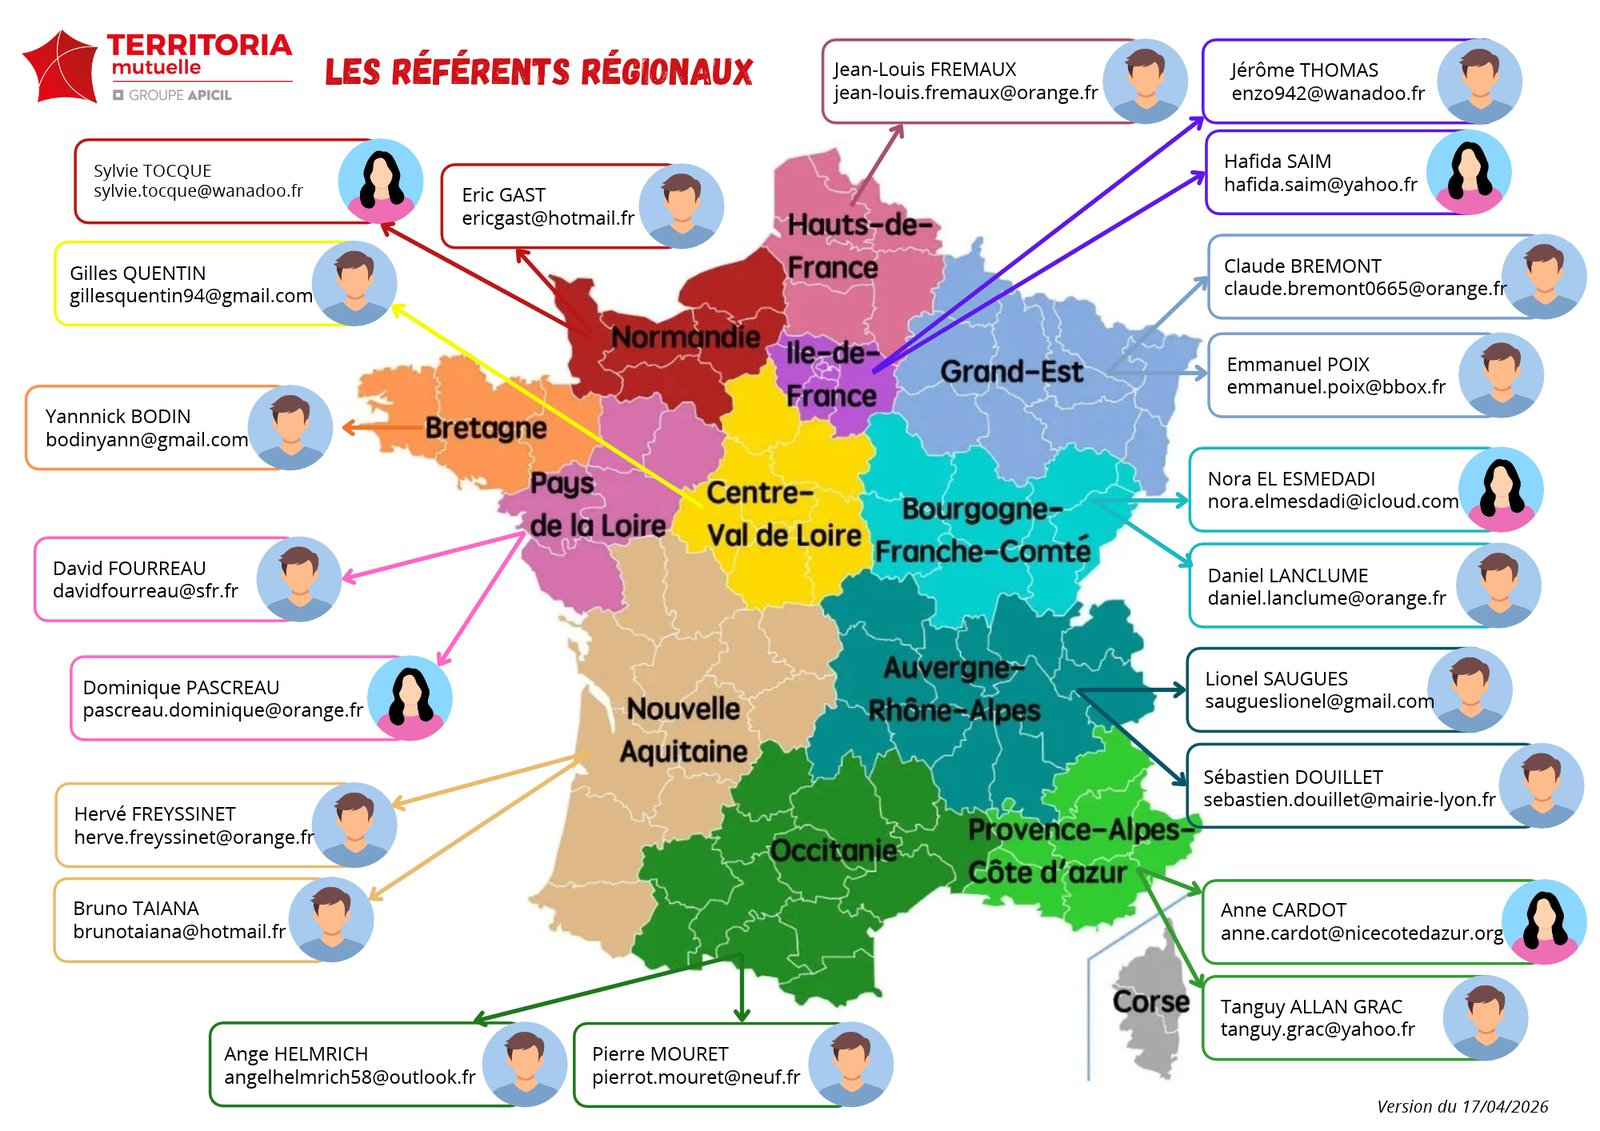
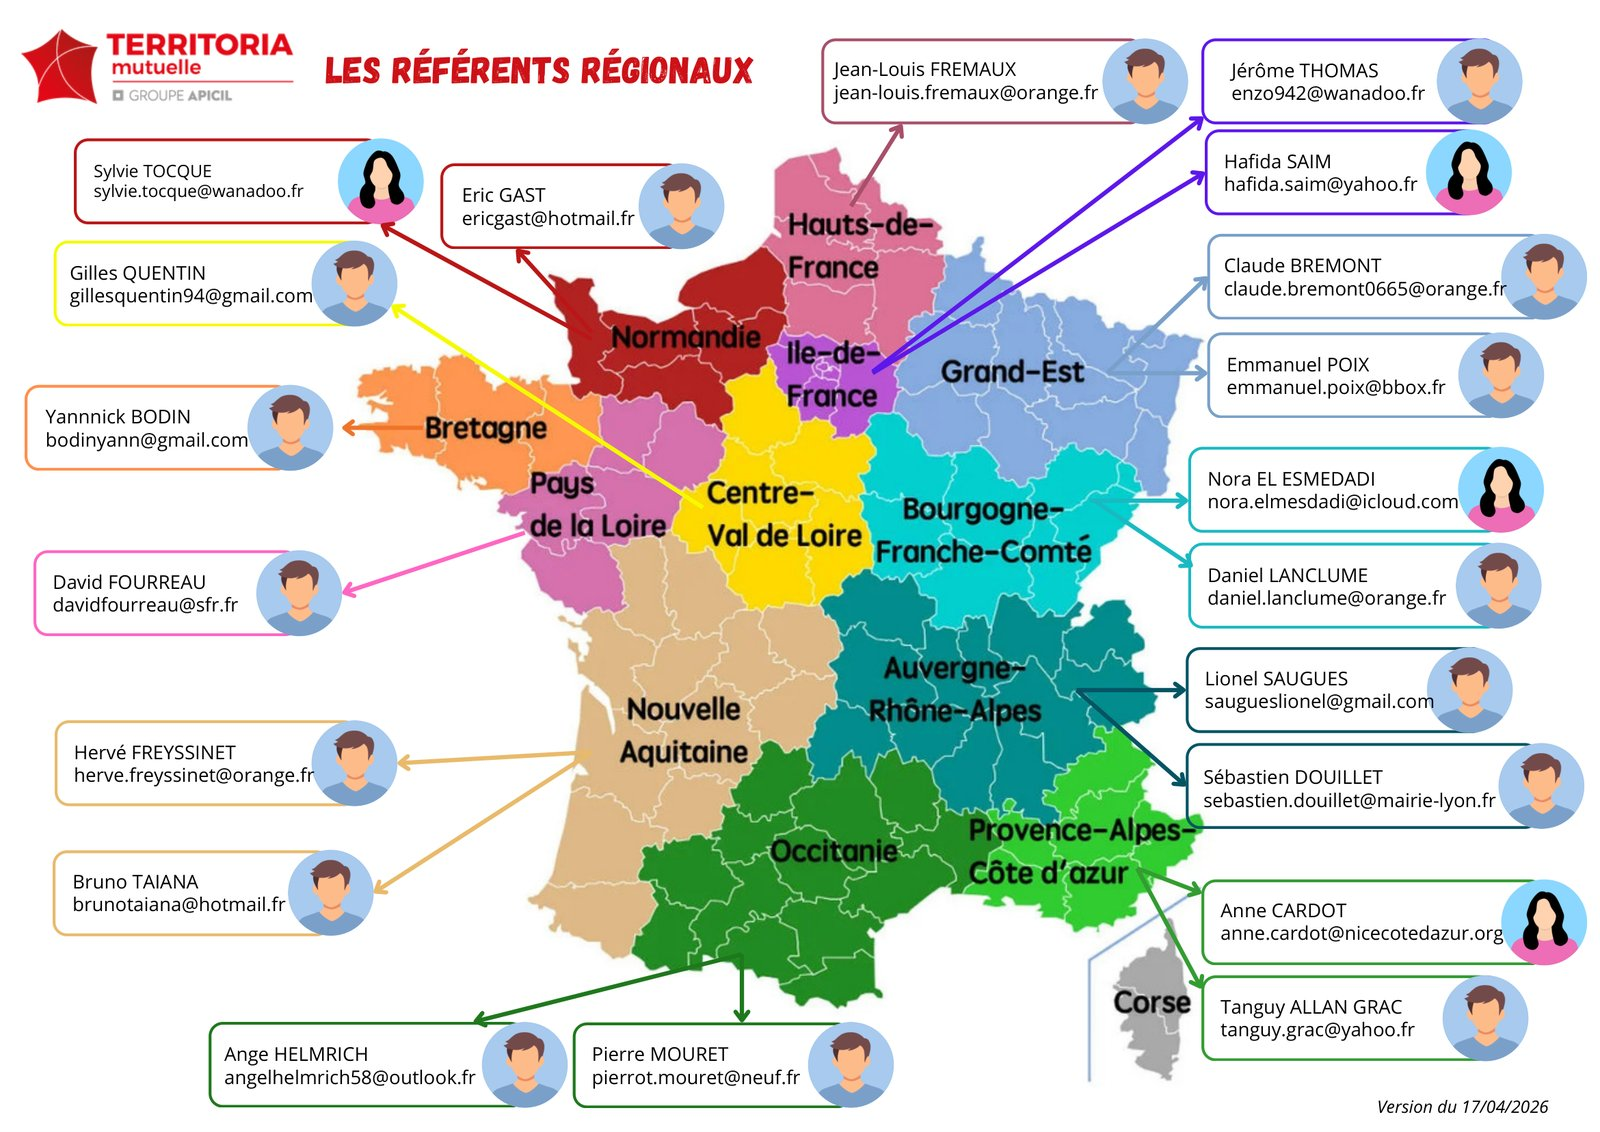
Actualités: mise à jour carte des référents régionaux (V2)
- Remplacement carte-referents-2026 (JPG + WebP) par la version V2 fournie
- Cache-busting ?v=20261013 sur les URLs de la carte + articles.js

Claude-Session: https://claude.ai/code/session_01Qt7RiMZpjdps41ZtBertij

diff --git a/articles.js b/articles.js
@@ -113,10 +113,10 @@ window.ARTICLES = [
       + "<figcaption>Vos délégués — mandat 2026-2030. <a href=\"assets/img/actu/liste-delegues-2026.jpg\" target=\"_blank\" rel=\"noopener\">Agrandir<span class=\"visually-hidden\"> (nouvelle fenêtre)</span></a></figcaption></figure>"
       + "<h3>Vos référents régionaux</h3>"
       + "<p>Pour faciliter l'animation de ce réseau, des référents régionaux ont été désignés pour favoriser le partage d'information et la vie du réseau en région. Retrouvez-les également sur la page <a href=\"qui-sommes-nous.html#gouvernance\">Qui sommes-nous</a>.</p>"
-      + "<figure class=\"article-figure\"><a href=\"assets/img/actu/carte-referents-2026.jpg\" target=\"_blank\" rel=\"noopener\">"
-      + "<picture><source srcset=\"assets/img/actu/carte-referents-2026.webp\" type=\"image/webp\">"
-      + "<img src=\"assets/img/actu/carte-referents-2026.jpg\" alt=\"Carte des référents régionaux de TERRITORIA mutuelle avec leurs coordonnées\" loading=\"lazy\"></picture></a>"
-      + "<figcaption>Les référents régionaux — version du 17/04/2026. <a href=\"assets/img/actu/carte-referents-2026.jpg\" target=\"_blank\" rel=\"noopener\">Agrandir<span class=\"visually-hidden\"> (nouvelle fenêtre)</span></a></figcaption></figure>"
+      + "<figure class=\"article-figure\"><a href=\"assets/img/actu/carte-referents-2026.jpg?v=20261013\" target=\"_blank\" rel=\"noopener\">"
+      + "<picture><source srcset=\"assets/img/actu/carte-referents-2026.webp?v=20261013\" type=\"image/webp\">"
+      + "<img src=\"assets/img/actu/carte-referents-2026.jpg?v=20261013\" alt=\"Carte des référents régionaux de TERRITORIA mutuelle avec leurs coordonnées\" loading=\"lazy\"></picture></a>"
+      + "<figcaption>Les référents régionaux — version du 17/04/2026. <a href=\"assets/img/actu/carte-referents-2026.jpg?v=20261013\" target=\"_blank\" rel=\"noopener\">Agrandir<span class=\"visually-hidden\"> (nouvelle fenêtre)</span></a></figcaption></figure>"
   },
 
   {

diff --git a/article.html b/article.html
@@ -173,7 +173,7 @@
         </div>
     </footer>
     <script src="script.js?v=20261006"></script>
-    <script src="articles.js?v=20261007"></script>
+    <script src="articles.js?v=20261013"></script>
     <script>
     (function(){
         function q(n){return new URLSearchParams(location.search).get(n);}

diff --git a/blog.html b/blog.html
@@ -236,7 +236,7 @@
     </footer>
 
     <script src="script.js?v=20261006"></script>
-    <script src="articles.js?v=20261007"></script>
+    <script src="articles.js?v=20261013"></script>
     <script>
     (function(){
         var grid=document.getElementById('blogGrid');
